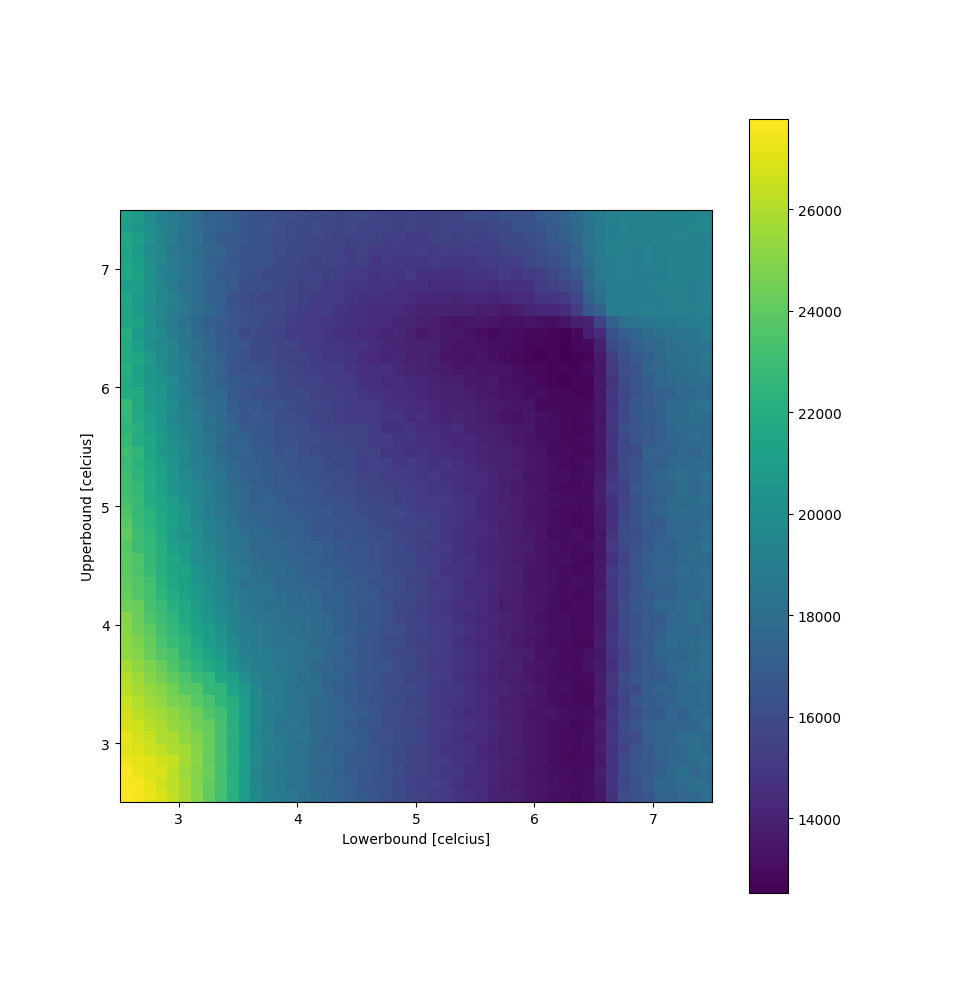
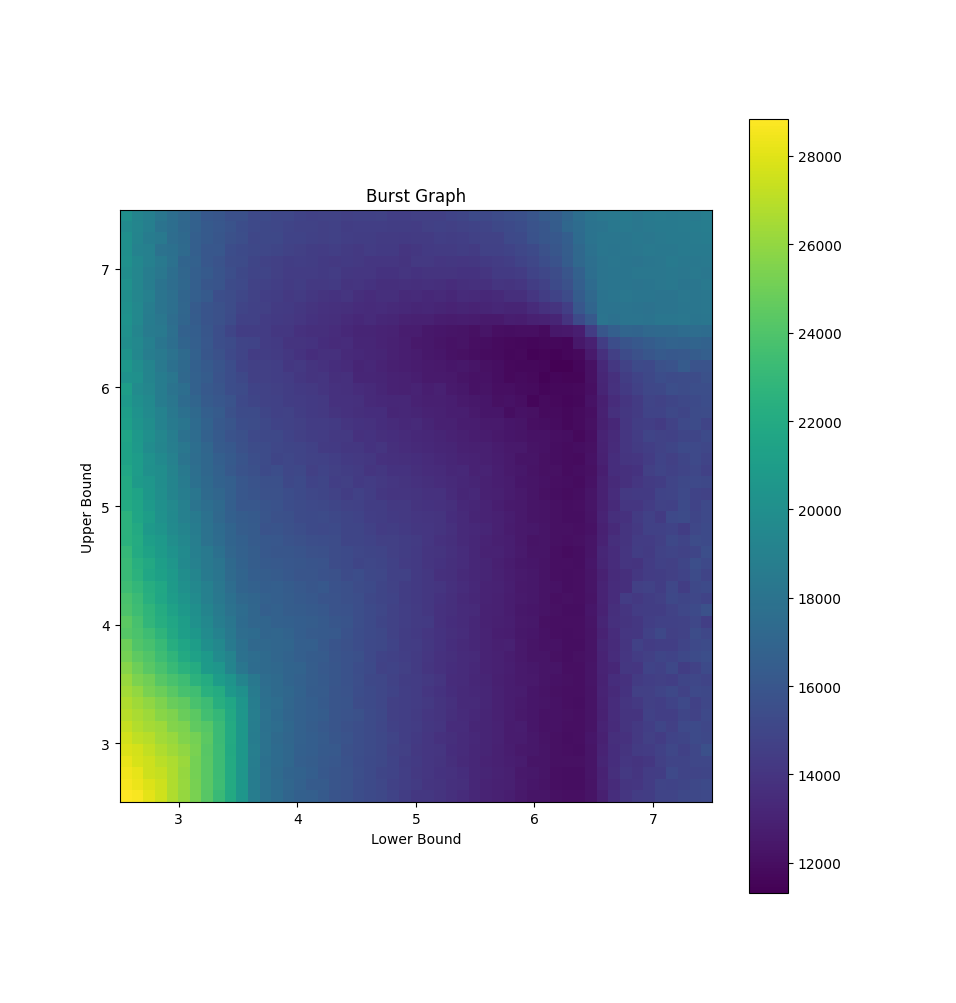
Improved burst grapher
I dont intend to do more with it

diff --git a/main.py b/main.py
@@ -35,18 +35,22 @@ class your_mom:
         args_to_give = {}
         print("Select which thermostat yoo want")
         print("s  | simple : For the simple thermostat")
+        print("es | ensimple : Enhanced simple thermostat using values from 'plotsimple'")
         print("b  | bursts : For Activating the compressor in bursts")
         print("a  | ai     : For Letting the AI do the hard work")
         print()
         print("Other functions")
         print("pp | price  : Plot price plot")
-        print("ps | plotsimple : Plot best values for simple thermostat")
+        print("ps | plotsimple : Find and plot best values for simple thermostat")
         print("pb | bounds : Generate and plot bounds for burst. Warning takes a long time")
         print("pa | aibound: slow")
         match input().lower():
+            case "ensimple" | "es":
+                thermostat_caller = self.simple
+                args_to_give = {"threshold" : 6.2}
             case "bursts" | "b":
                 thermostat_caller = self.bursts
-                args_to_give = {"lowerbound" : 6.4, "upperbound" : 6.4, "prior_state" : False}
+                args_to_give = {"lowerbound" : 6.2, "upperbound" : 6.3, "prior_state" : False}
             case "ai" | "a":
                 thermostat_caller = self.ai_enhanced
                 args_to_give = {"threshold_1" : 1.3, "threshold_2" : 2.8}
@@ -55,7 +59,7 @@ class your_mom:
             case "plotsimple" | "ps":
                 self.find_simple_vals()
             case "bounds" | "pb":
-                self.generate_plot_bound()
+                self.find_burst_vals()
             case "aibound" | "pa":
                 self.generate_ai_values()
             case "t": # For testing and development
@@ -65,7 +69,8 @@ class your_mom:
                 args_to_give = {"threshold" : 5}
 
         if thermostat_caller != 0:
-            print(self.run_simulations(thermostat_caller, args_to_give))
+            result = self.run_simulations(thermostat_caller, args_to_give, 100)
+            print(f"Thermostat costs {result:.2f} kr. for the resturant")
         return
 
     def run_simulations(self, thermostat_caller, args_to_give, runs:int = 20) -> float:
@@ -106,12 +111,37 @@ class your_mom:
 #================================================================
 # Helper functions to find best values for different thermostats 
 #================================================================
+    def find_burst_vals(self):
+        print("Beginning to find best values for burst thermostat")
+        check_progress = start_val = 2.5
+        end_val = 7.5
+        increment = 0.1
+        
+        results = []
+        upperbound_2_test = start_val
+        while True:
+            intermediate_results = []
+            lowerbound_2_test = start_val
+            while True:
+                intermediate_results.append(self.run_simulations(self.bursts, {"lowerbound" : lowerbound_2_test, "upperbound" : upperbound_2_test, "prior_state" : False}, 25))
+                lowerbound_2_test += increment
+                if lowerbound_2_test > end_val:
+                    break
+            upperbound_2_test += increment
+            results.append(intermediate_results) # Shitty line i forgot twice
+            if upperbound_2_test > end_val: break
+            if upperbound_2_test > check_progress:
+                print(f"Progress: {(upperbound_2_test-start_val)/(end_val-start_val)*100:.2f}%")
+                check_progress += 0.2
+        
+        self.plot_fancy(results, [start_val, end_val], [start_val, end_val], "Lower Bound", "Upper Bound", "Burst Graph")
+        return
+
     def find_simple_vals(self):
         print("Beginning to find best values for simple thermostat")
-        start_val = 1
+        check_progress = start_val = 1
         end_val = 7
-        check_progress = start_val
-        
+         
         tempeture_to_test = start_val
         tempetures_tested = []
         results = []
